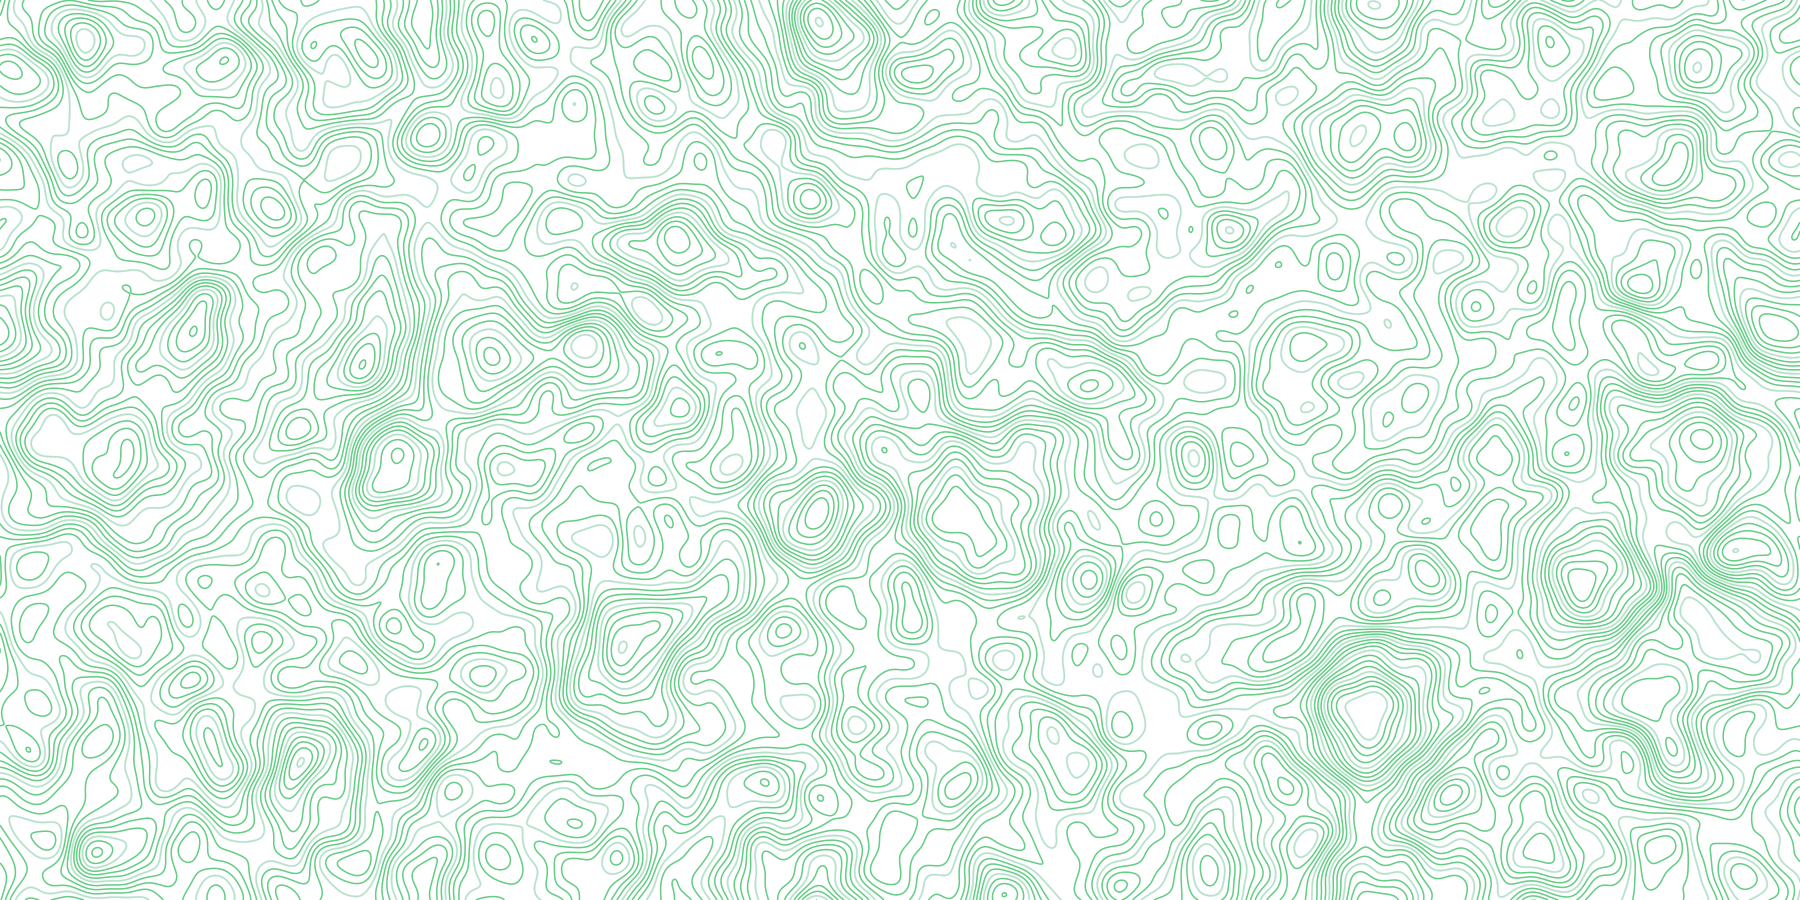
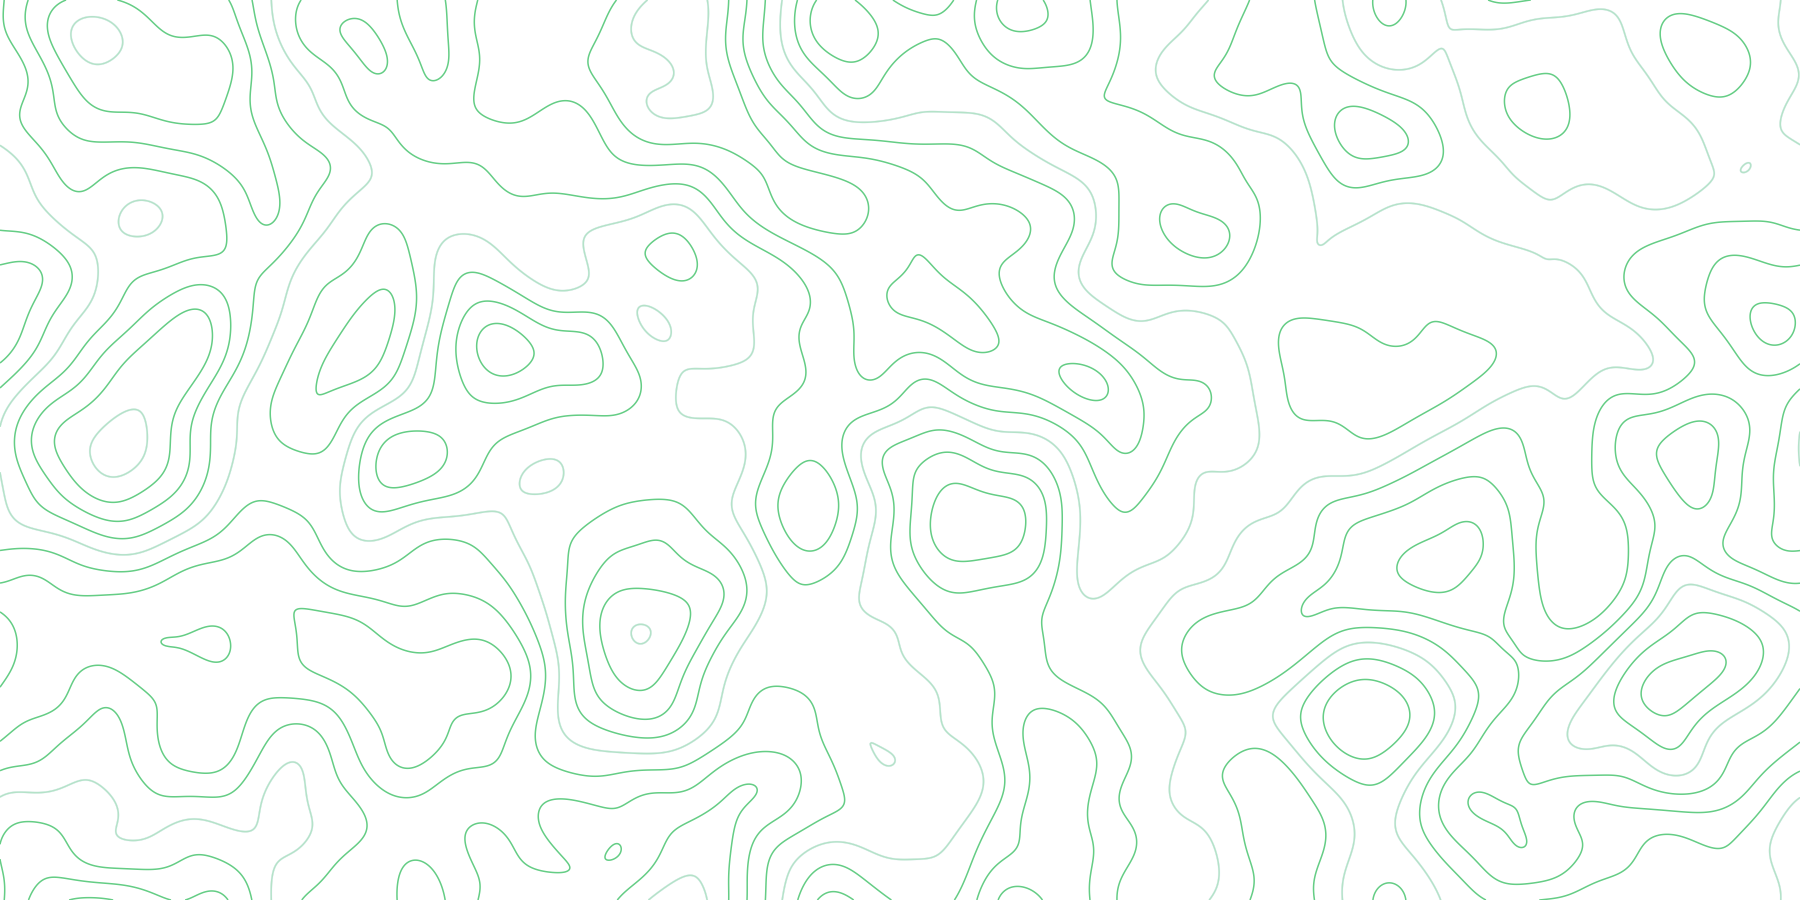
Topographic ground: sparser terrain (fewer, spread-out contours)
Regenerate the overlay with far fewer contour levels (11 vs 26) and larger
terrain features, so it reads as calm, spread-out ridgelines instead of dense
packed lines. With less line density the strength can come back up a little:
dark 0.10, light 0.13, static console 0.10.

Claude-Session: https://claude.ai/code/session_01Rykm1PRspyG3mLbsfLyocH

diff --git a/webgui/frontend/src/styles.css b/webgui/frontend/src/styles.css
@@ -13,7 +13,7 @@
   --input-bg:#0c0e12; --log-bg:#0a0c10; --log-fg:#d7dde7;
   /* Topographic ground — a real contour map (brand-green minor lines with white
      index contours) painted behind the console, prominent but panel-friendly. */
-  --topo-img:url("/brand-topo-dark.png"); --topo-op:0.036;
+  --topo-img:url("/brand-topo-dark.png"); --topo-op:0.10;
 }
 /* Light mode: same brand accents on a bright ground (logs go light too). */
 :root[data-theme="light"]{
@@ -26,7 +26,7 @@
   --input-bg:#ffffff; --log-bg:#f6f8fb; --log-fg:#1c2430;
   /* On the bright ground white index lines vanish — swap to the light overlay
      (green minor lines with blue index contours) and dial it back to a watermark. */
-  --topo-img:url("/brand-topo-light.png"); --topo-op:0.045;
+  --topo-img:url("/brand-topo-light.png"); --topo-op:0.13;
 }
 :root[data-theme="light"] body::after{opacity:0.5}
 :root[data-theme="light"] button.primary{color:#fff}

diff --git a/webgui/static/index.html b/webgui/static/index.html
@@ -23,7 +23,7 @@
   /* Sysible topographic ground — a bold brand-green contour map with white index
      lines, matching the Controller console. */
   body::before{content:"";position:fixed;inset:0;z-index:-2;pointer-events:none;
-    background:url("/static/brand-topo-dark.png") center / cover no-repeat;opacity:0.036}
+    background:url("/static/brand-topo-dark.png") center / cover no-repeat;opacity:0.10}
   body::after{content:"";position:fixed;inset:0;z-index:-1;pointer-events:none;
     background:radial-gradient(85% 60% at 12% -8%, rgba(70,177,100,0.16), transparent 55%),
               radial-gradient(80% 70% at 100% 112%, rgba(45,138,118,0.13), transparent 55%)}
